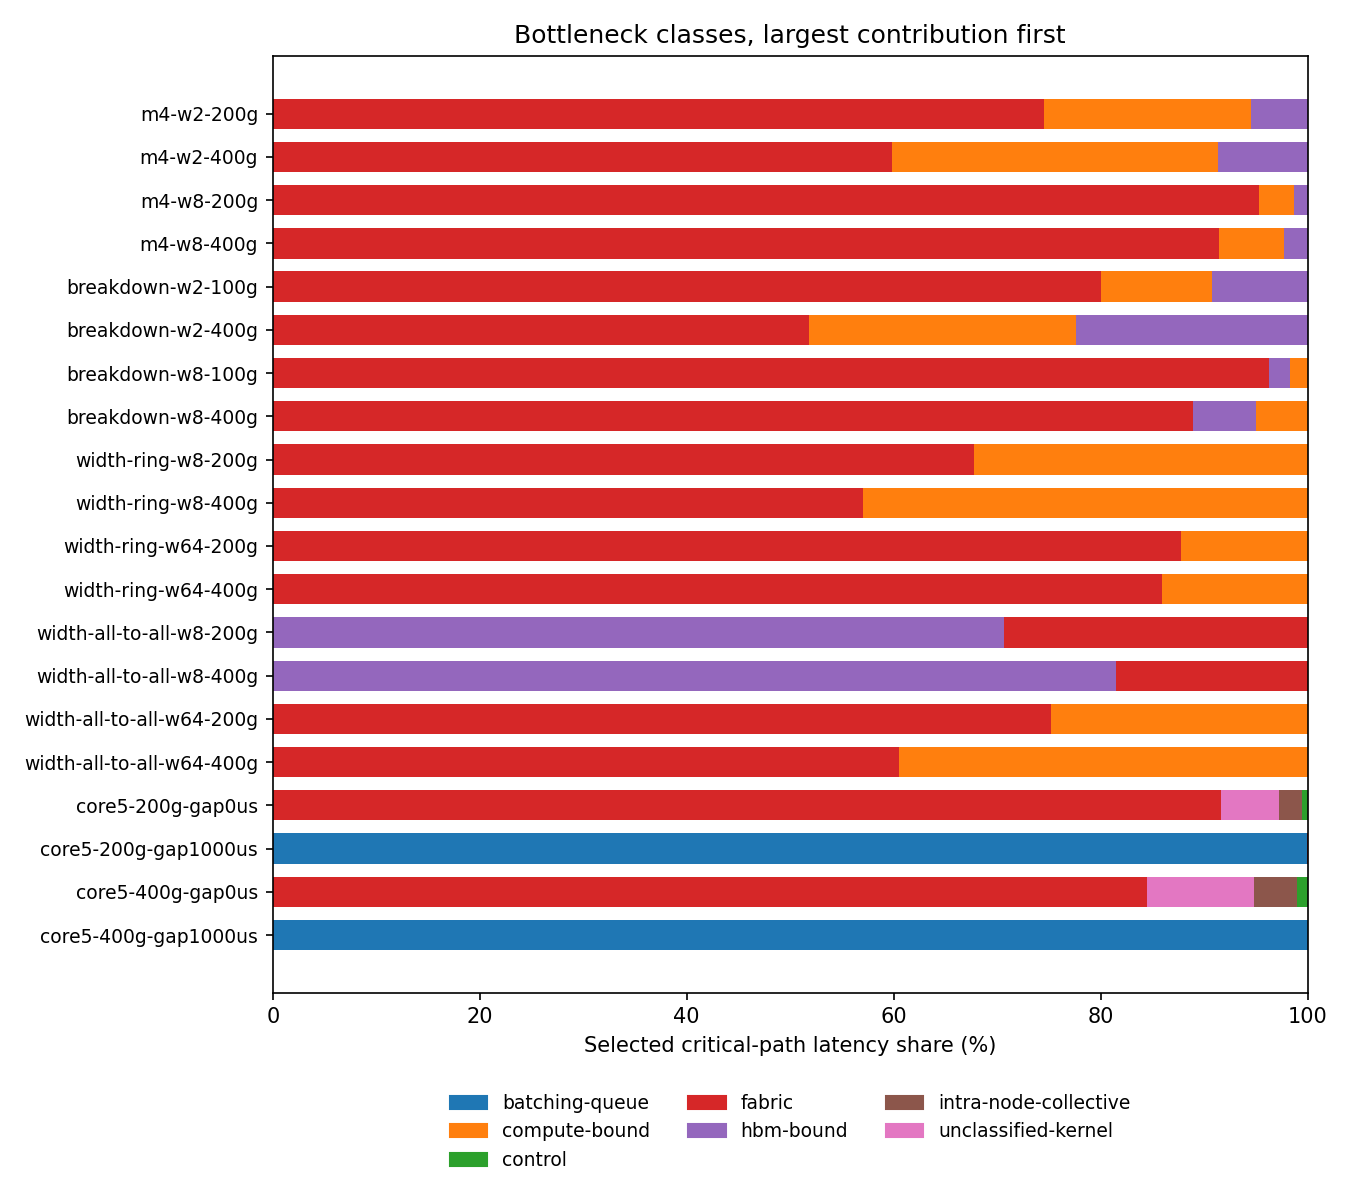
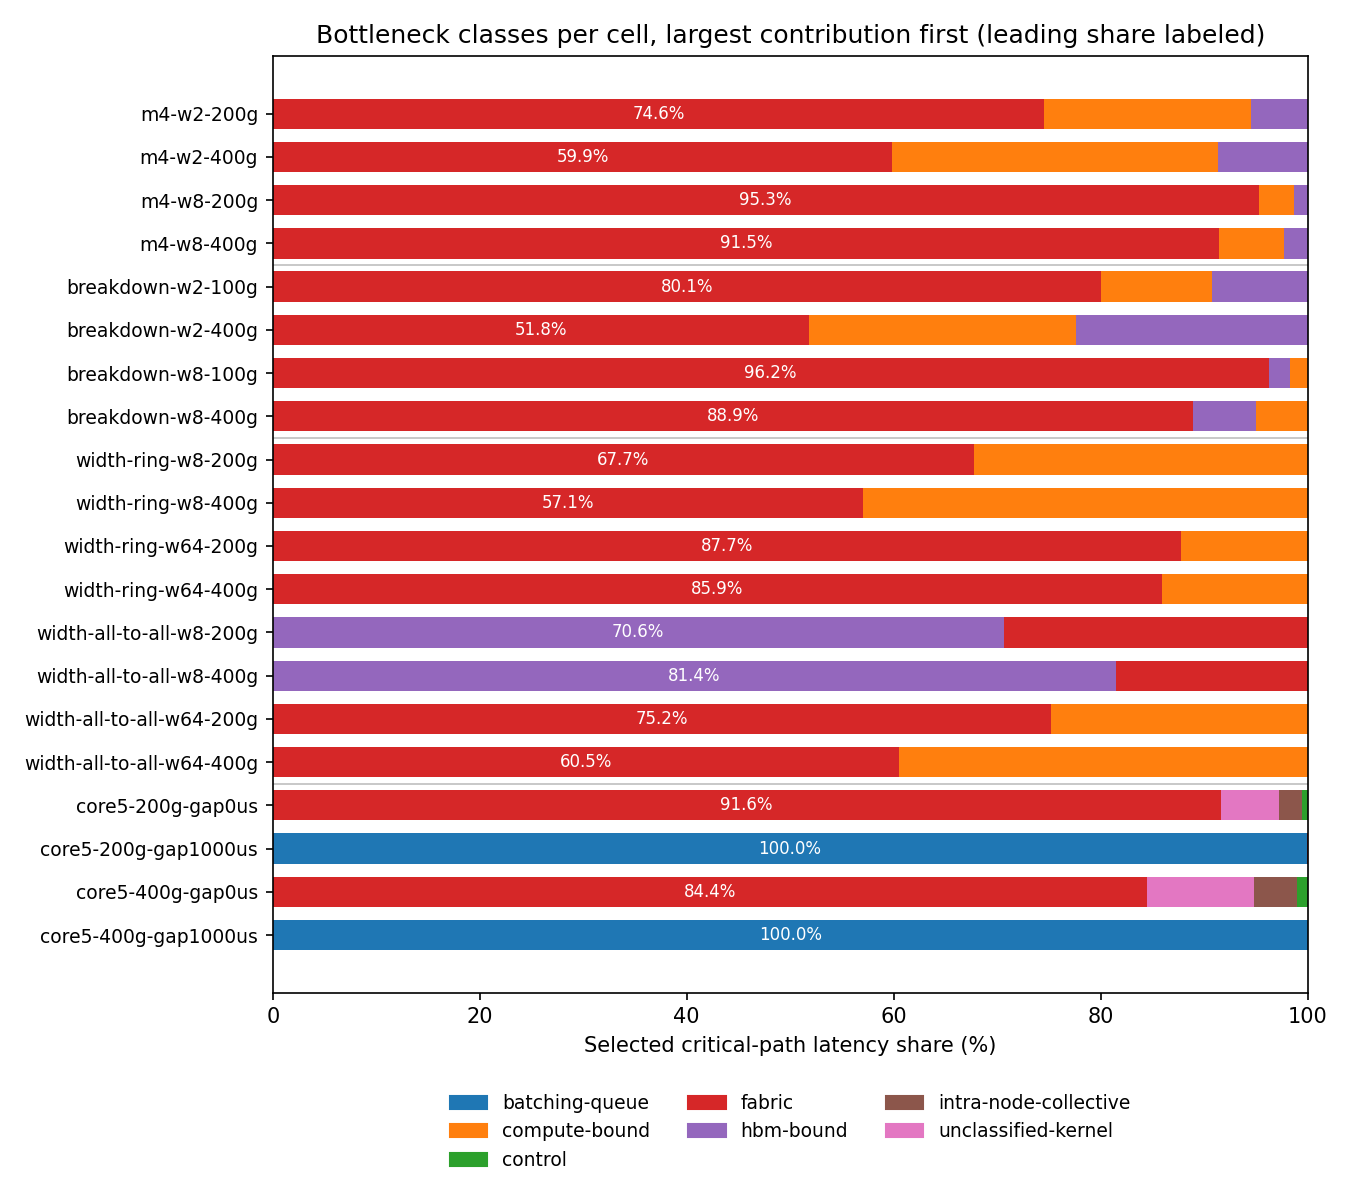
Label the leading bottleneck share per cell and separate the study groups in the ranked shares figure

diff --git a/examples/bottleneck_report_v1/run_study.py b/examples/bottleneck_report_v1/run_study.py
@@ -410,14 +410,21 @@ def plot(report, destination):
     fig, ax = plt.subplots(figsize=(9, 8))
     for index, (_, cs) in enumerate(rows):
         left = 0
-        for c in cs:
+        for position, c in enumerate(cs):
             ax.barh(index, c["share_percent"], left=left, color=colors[c["class"]], height=.7)
+            if position == 0 and c["share_percent"] >= 12:
+                ax.text(left + c["share_percent"] / 2, index, f'{c["share_percent"]:.1f}%',
+                        ha="center", va="center", fontsize=8, color="white")
             left += c["share_percent"]
+    groups = [name.split("-")[0] for name, _ in rows]
+    for index in range(1, len(rows)):
+        if groups[index] != groups[index - 1]:
+            ax.axhline(index - .5, color="0.75", linewidth=.8)
     ax.set_yticks(range(len(rows)), [name for name, _ in rows], fontsize=9)
     ax.invert_yaxis()
     ax.set_xlim(0, 100)
     ax.set_xlabel("Selected critical-path latency share (%)")
-    ax.set_title("Bottleneck classes, largest contribution first")
+    ax.set_title("Bottleneck classes per cell, largest contribution first (leading share labeled)")
     from matplotlib.patches import Patch
     ax.legend(handles=[Patch(color=colors[c], label=c) for c in classes],
               loc="upper center", bbox_to_anchor=(.5, -.09), ncol=3, frameon=False, fontsize=9)
